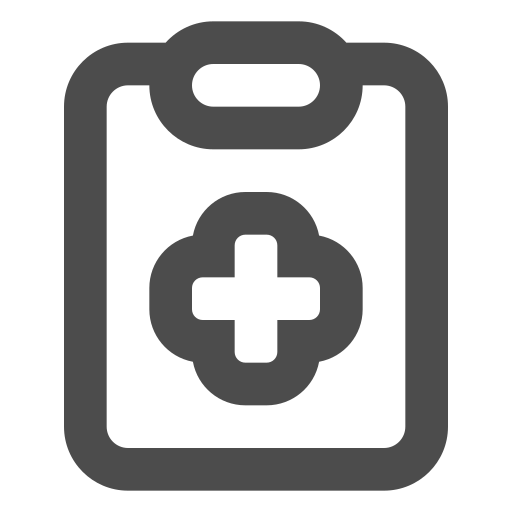
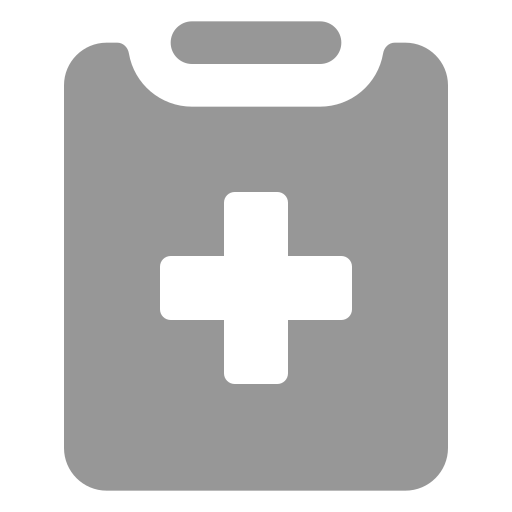
feat : modify

diff --git a/app/(main)/_layout.tsx b/app/(main)/_layout.tsx
@@ -1,8 +1,8 @@
 import { Tabs } from 'expo-router';
 import React from 'react';
 import { View, Text, StyleSheet, TouchableOpacity, Image } from 'react-native';
+import { SafeAreaView } from 'react-native-safe-area-context';
 
-import { TabBarIcon } from '@/components/navigation/TabBarIcon';
 import { useColorScheme } from '@/hooks/useColorScheme';
 import { useUserData } from '@/context/UserDataContext';
 import { Link, useRouter } from 'expo-router';
@@ -13,94 +13,135 @@ export default function TabLayout() {
   const router = useRouter();
 
   return (
-    <Tabs
-      screenOptions={{
-        tabBarActiveTintColor: '#595958',
-        tabBarStyle: {
-          backgroundColor: 'white',
-          borderTopWidth: 0,
-          height: 75,
-          paddingBottom: 20,
-        },
-        headerShown: true,
-        headerStyle: { backgroundColor: '#AFB8DA' },
-        headerTitleAlign: 'left',
-        headerTitle: () => (
-          <View style={styles.headerContainer}>
-            <Text style={styles.familyRoleText}>{user?.familyRole || '사용자'}</Text>
-          </View>
-        ),
-        headerRight: () => (
-          <View style={styles.headerRight}>
-            <Link href="/notification">
-              <TabBarIcon name="notifications" color="#ffffff" />
-            </Link>
-            <Link href="/chat">
-              <TabBarIcon name="chatbubbles" color="#ffffff" />
-            </Link>
-          </View>
-        ),
-      }}
-    >
-      {/* 하단바에 표시될 탭들 */}
-      <Tabs.Screen
-        name="index"
-        options={{
-          title: '홈',
-          tabBarIcon: ({ color, focused }) => (
-            <TabBarIcon name={focused ? 'home' : 'home-outline'} color={color} />
+    <SafeAreaView style={{ flex: 1 }}>
+      <Tabs
+        screenOptions={{
+          tabBarActiveTintColor: '#595958',
+          tabBarLabelStyle : {
+            marginTop : -5,
+            fontSize : 12,
+          },
+
+          tabBarStyle: {
+            backgroundColor: 'white',
+            borderTopWidth: 0,
+            height: 90, // 탭 바 높이 조정
+            paddingBottom: 10, // 여백 조정
+          },
+          headerShown: true,
+          headerStyle: { backgroundColor: '#AFB8DA' },
+          headerTitleAlign: 'left',
+          headerTitle: () => (
+            <View style={styles.headerContainer}>
+              <Text style={styles.familyRoleText}>{user?.familyRole || '사용자'}</Text>
+            </View>
+          ),
+          headerRight: () => (
+            <View style={styles.headerRight}>
+              <Link href="/notification">
+                <Image
+                  source={require('../../assets/images/notification.png')}
+                  style={styles.headerIcon}
+                />
+              </Link>
+              <Link href="/chat">
+                <Image
+                  source={require('../../assets/images/chat.png')}
+                  style={styles.headerIcon}
+                />
+              </Link>
+            </View>
           ),
         }}
-      />
-      <Tabs.Screen
-        name="medication"
-        options={{
-          title: '복약 관리',
-          tabBarIcon: ({ color, focused }) => (
-            <TabBarIcon name={focused ? 'medkit' : 'medkit-outline'} color={color} />
-          ),
-        }}
-      />
-      <Tabs.Screen
-        name="registerOptions"
-        options={{
-          tabBarButton: (props) => (
-            <TouchableOpacity
-              {...props}
-              style={{
-                justifyContent: 'center',
-                alignItems: 'center',
-                top: -20,
-              }}
-              onPress={() => router.push('/(main)/registerOptions')} // 중앙 버튼 클릭 시 이동
-            >
+      >
+        {/* 하단바에 표시될 탭들 */}
+        <Tabs.Screen
+          name="index"
+          options={{
+            title: '홈',
+            tabBarIcon: ({ focused }) => (
               <Image
-                source={require('../../assets/images/plus_button.png')}
-                style={{ width: 60, height: 60 }}
+                source={require('../../assets/images/home.png')}
+                style={{
+                  ...styles.tabIcon,
+                  tintColor: focused ? '#595958' : '#aaa', // 활성 상태 색상
+                  opacity: focused ? 1 : 0.5, // 활성 상태 투명도
+                }}
               />
-            </TouchableOpacity>
-          ),
-        }}
-      />
-      <Tabs.Screen
-        name="health"
-        options={{
-          title: '건강 캘린더',
-          tabBarIcon: ({ color, focused }) => (
-            <TabBarIcon name={focused ? 'heart' : 'heart-outline'} color={color} />
-          ),
-        }}
-      />
-      <Tabs.Screen
-        name="profile"
-        options={{
-          title: '내 정보',
-          tabBarIcon: ({ color, focused }) => (
-            <TabBarIcon name={focused ? 'person' : 'person-outline'} color={color} />
-          ),
-        }}
-      />
-    </Tabs>
+            ),
+          }}
+        />
+        <Tabs.Screen
+          name="medication"
+          options={{
+            title: '복약 관리',
+            tabBarIcon: ({ focused }) => (
+              <Image
+                source={require('../../assets/images/medical-record.png')}
+                style={{
+                  ...styles.tabIcon,
+                  tintColor: focused ? '#595958' : '#aaa',
+                  opacity: focused ? 1 : 0.5,
+                }}
+              />
+            ),
+          }}
+        />
+        <Tabs.Screen
+          name="registerOptions"
+          options={{
+            tabBarButton: (props) => (
+              <TouchableOpacity
+                {...props}
+                style={{
+                  justifyContent: 'center',
+                  alignItems: 'center',
+                  top: -10, // 중앙 버튼 위치 조정
+                }}
+                onPress={() => router.push('/(main)/registerOptions')}
+              >
+                <Image
+                  source={require('../../assets/images/plus_button.png')}
+                  style={{ width: 50, height: 50 }} // 중앙 버튼 크기 조정
+                />
+              </TouchableOpacity>
+            ),
+          }}
+        />
+        <Tabs.Screen
+          name="health"
+          options={{
+            title: '건강 캘린더',
+            tabBarIcon: ({ focused }) => (
+              <Image
+                source={require('../../assets/images/schedule.png')}
+                style={{
+                  ...styles.tabIcon,
+                  tintColor: focused ? '#595958' : '#aaa',
+                  opacity: focused ? 1 : 0.5,
+                }}
+              />
+            ),
+          }}
+        />
+        <Tabs.Screen
+          name="profile"
+          options={{
+            title: '내 정보',
+            tabBarIcon: ({ focused }) => (
+              <Image
+                source={require('../../assets/images/user.png')}
+                style={{
+                  ...styles.tabIcon,
+                  tintColor: focused ? '#595958' : '#aaa',
+                  opacity: focused ? 1 : 0.8,
+                }}
+              />
+            ),
+          }}
+        />
+      </Tabs>
+    </SafeAreaView>
   );
 }
 
@@ -119,5 +160,15 @@ const styles = StyleSheet.create({
     flexDirection: 'row',
     alignItems: 'center',
     marginRight: 15,
+  },
+  headerIcon: {
+    width: 24,
+    height: 24,
+    marginHorizontal: 10,
+  },
+  tabIcon: {
+    width: 28, // 탭 아이콘 크기 조정
+    height: 28,
+    marginBottom: 5, // 여백 추가
   },
 });

diff --git a/app/(main)/registerOptions.tsx b/app/(main)/registerOptions.tsx
@@ -34,7 +34,7 @@ export default function RegisterOptions() {
           <View style={styles.card}>
             <Text style={styles.title}>처방전 스캔</Text>
             <Image
-              source={require('../../assets/images/medical-record.png')}
+              source={require('../../assets/images/medical-record(3).png')}
               style={styles.icon}
             />
             <Text style={styles.description}>처방전을 스캔하여 복약 정보를 등록하세요!</Text>

diff --git a/app/utils/textParser.ts b/app/utils/textParser.ts
@@ -25,7 +25,7 @@ export const parseOCRText = (text: string): PrescriptionInfo => {
       const [_, name, details] = match;
 
       // "환자정", "병원정", "코팅정" 제외
-      if (name === "환자정" || name === "병원정" || name === "필름코팅정") continue;
+      if (name === "환자정" || name === "병원정" || name === "필름코팅정" || name === "루미늄호일포") continue;
 
       const medicine: Medicine = {
         medicineName: name.trim(),
